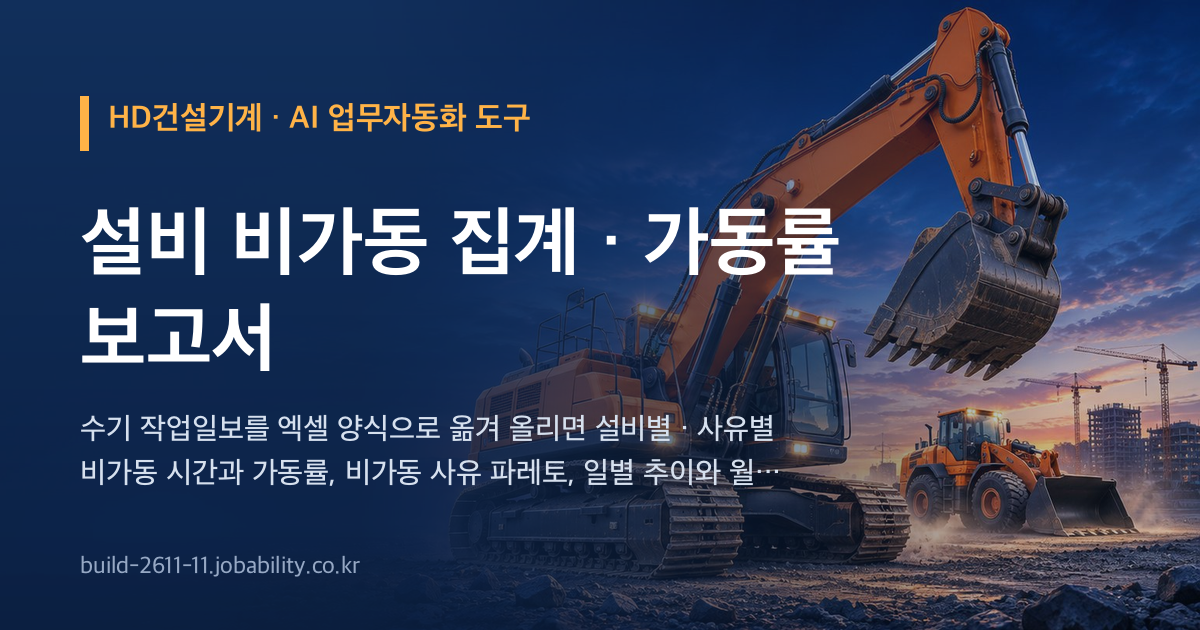
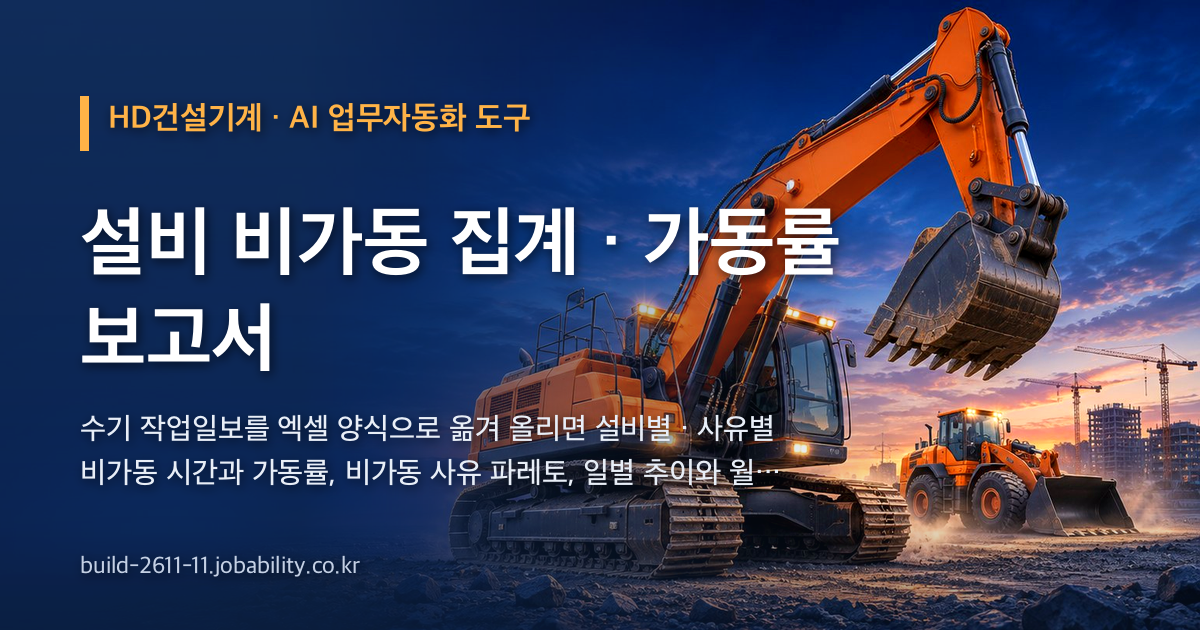
공유 그림 다시(사진 또렷하게) · 판 2026-11-13.12

diff --git a/index.html b/index.html
@@ -12,8 +12,8 @@
 <meta property="og:title" content="HD건설기계 · 설비 비가동 집계 · 가동률 보고서">
 <meta property="og:description" content="수기 작업일보를 엑셀 양식으로 옮겨 올리면 설비별 · 사유별 비가동 시간과 가동률, 비가동 사유 파레토, 일별 추이와 월간 설비 운영실적 보고서를 만들어 주는 브라우저 도구입니다.">
 <meta property="og:url" content="https://build-2611-11.jobability.co.kr/">
-<meta property="og:image" content="https://build-2611-11.jobability.co.kr/og-image.png">
-<meta property="og:image:secure_url" content="https://build-2611-11.jobability.co.kr/og-image.png">
+<meta property="og:image" content="https://build-2611-11.jobability.co.kr/og-image.png?v=2">
+<meta property="og:image:secure_url" content="https://build-2611-11.jobability.co.kr/og-image.png?v=2">
 <meta property="og:image:type" content="image/png">
 <meta property="og:image:width" content="1200">
 <meta property="og:image:height" content="630">
@@ -22,7 +22,7 @@
 <meta name="twitter:card" content="summary_large_image">
 <meta name="twitter:title" content="HD건설기계 · 설비 비가동 집계 · 가동률 보고서">
 <meta name="twitter:description" content="수기 작업일보를 엑셀 양식으로 옮겨 올리면 설비별 · 사유별 비가동 시간과 가동률, 비가동 사유 파레토, 일별 추이와 월간 설비 운영실적 보고서를 만들어 주는 브라우저 도구입니다.">
-<meta name="twitter:image" content="https://build-2611-11.jobability.co.kr/og-image.png">
+<meta name="twitter:image" content="https://build-2611-11.jobability.co.kr/og-image.png?v=2">
 <!-- /seo-kit -->
 <meta name="description" content="수기 작업일보를 엑셀 양식으로 옮겨 올리면 설비별 · 사유별 비가동 시간과 가동률, 비가동 사유 파레토, 일별 추이와 월간 설비 운영실적 보고서를 만들어 주는 브라우저 도구입니다.">
 <link rel="icon" href="favicon.svg" type="image/svg+xml">
@@ -30,9 +30,9 @@
 <link rel="stylesheet" href="css/app.css">
 <!-- auth-kit: 로그인 전에는 도구 화면을 감춘다(js/auth.js 가 판정 뒤 푼다) -->
 <script>document.documentElement.classList.add('auth-lock')</script>
-<link rel="stylesheet" href="css/auth.css?v=2026-11-13.11">
-<link rel="stylesheet" href="css/board.css?v=2026-11-13.11">
-<link rel="stylesheet" href="css/kit-build.css?v=2026-11-13.11">
+<link rel="stylesheet" href="css/auth.css?v=2026-11-13.12">
+<link rel="stylesheet" href="css/board.css?v=2026-11-13.12">
+<link rel="stylesheet" href="css/kit-build.css?v=2026-11-13.12">
 <!-- /auth-kit -->
 </head>
 <body>
@@ -214,11 +214,11 @@
 <script src="js/downtime.js"></script>
 <script src="js/app.js"></script>
 <!-- auth-kit: 로그인 · 사용 신청 · 승인 · 게시판(키트 정본 data10-00/kit/auth, 적용 build-2611-00/tools/kit) -->
-<script src="vendor/supabase.js?v=2026-11-13.11"></script>
-<script src="js/auth-config.js?v=2026-11-13.11"></script>
-<script src="js/kit-build.js?v=2026-11-13.11"></script>
-<script src="js/board.js?v=2026-11-13.11"></script>
-<script src="js/auth.js?v=2026-11-13.11"></script>
+<script src="vendor/supabase.js?v=2026-11-13.12"></script>
+<script src="js/auth-config.js?v=2026-11-13.12"></script>
+<script src="js/kit-build.js?v=2026-11-13.12"></script>
+<script src="js/board.js?v=2026-11-13.12"></script>
+<script src="js/auth.js?v=2026-11-13.12"></script>
 <!-- /auth-kit -->
 </body>
 </html>

diff --git a/scan.html b/scan.html
@@ -12,8 +12,8 @@
 <meta property="og:title" content="스캔본 읽기 — 설비 비가동 집계 · 가동률 보고서">
 <meta property="og:description" content="손으로 쓴 생산작업일보 · 용접로봇 가동일보 스캔본(사진 · PDF)을 AI 비전으로 읽어 확인한 뒤 비가동 집계 입력 양식으로 보냅니다. 키가 없으면 같은 표를 손으로 넣습니다.">
 <meta property="og:url" content="https://build-2611-11.jobability.co.kr/scan.html">
-<meta property="og:image" content="https://build-2611-11.jobability.co.kr/og-image.png">
-<meta property="og:image:secure_url" content="https://build-2611-11.jobability.co.kr/og-image.png">
+<meta property="og:image" content="https://build-2611-11.jobability.co.kr/og-image.png?v=2">
+<meta property="og:image:secure_url" content="https://build-2611-11.jobability.co.kr/og-image.png?v=2">
 <meta property="og:image:type" content="image/png">
 <meta property="og:image:width" content="1200">
 <meta property="og:image:height" content="630">
@@ -22,7 +22,7 @@
 <meta name="twitter:card" content="summary_large_image">
 <meta name="twitter:title" content="스캔본 읽기 — 설비 비가동 집계 · 가동률 보고서">
 <meta name="twitter:description" content="손으로 쓴 생산작업일보 · 용접로봇 가동일보 스캔본(사진 · PDF)을 AI 비전으로 읽어 확인한 뒤 비가동 집계 입력 양식으로 보냅니다. 키가 없으면 같은 표를 손으로 넣습니다.">
-<meta name="twitter:image" content="https://build-2611-11.jobability.co.kr/og-image.png">
+<meta name="twitter:image" content="https://build-2611-11.jobability.co.kr/og-image.png?v=2">
 <!-- /seo-kit -->
 <meta name="description" content="손으로 쓴 생산작업일보 · 용접로봇 가동일보 스캔본(사진 · PDF)을 AI 비전으로 읽어 확인한 뒤 비가동 집계 입력 양식으로 보냅니다. 키가 없으면 같은 표를 손으로 넣습니다.">
 <link rel="icon" href="favicon.svg" type="image/svg+xml">
@@ -30,9 +30,9 @@
 <link rel="stylesheet" href="css/app.css">
 <!-- auth-kit: 로그인 전에는 도구 화면을 감춘다(js/auth.js 가 판정 뒤 푼다) -->
 <script>document.documentElement.classList.add('auth-lock')</script>
-<link rel="stylesheet" href="css/auth.css?v=2026-11-13.11">
-<link rel="stylesheet" href="css/board.css?v=2026-11-13.11">
-<link rel="stylesheet" href="css/kit-build.css?v=2026-11-13.11">
+<link rel="stylesheet" href="css/auth.css?v=2026-11-13.12">
+<link rel="stylesheet" href="css/board.css?v=2026-11-13.12">
+<link rel="stylesheet" href="css/kit-build.css?v=2026-11-13.12">
 <!-- /auth-kit -->
 </head>
 <body>
@@ -125,11 +125,11 @@
 <script src="js/scanread.js"></script>
 <script src="js/scan.js"></script>
 <!-- auth-kit: 로그인 · 사용 신청 · 승인 · 게시판(키트 정본 data10-00/kit/auth, 적용 build-2611-00/tools/kit) -->
-<script src="vendor/supabase.js?v=2026-11-13.11"></script>
-<script src="js/auth-config.js?v=2026-11-13.11"></script>
-<script src="js/kit-build.js?v=2026-11-13.11"></script>
-<script src="js/board.js?v=2026-11-13.11"></script>
-<script src="js/auth.js?v=2026-11-13.11"></script>
+<script src="vendor/supabase.js?v=2026-11-13.12"></script>
+<script src="js/auth-config.js?v=2026-11-13.12"></script>
+<script src="js/kit-build.js?v=2026-11-13.12"></script>
+<script src="js/board.js?v=2026-11-13.12"></script>
+<script src="js/auth.js?v=2026-11-13.12"></script>
 <!-- /auth-kit -->
 </body>
 </html>

diff --git a/guide.html b/guide.html
@@ -12,8 +12,8 @@
 <meta property="og:title" content="사용법 — 설비 비가동 집계 · 가동률 보고서">
 <meta property="og:description" content="수기 작업일보를 엑셀 양식으로 옮겨 올리면 설비별 · 사유별 비가동 시간과 가동률, 비가동 사유 파레토, 일별 추이와 월간 설비 운영실적 보고서를 만들어 주는 브라우저 도구입니다.">
 <meta property="og:url" content="https://build-2611-11.jobability.co.kr/guide.html">
-<meta property="og:image" content="https://build-2611-11.jobability.co.kr/og-image.png">
-<meta property="og:image:secure_url" content="https://build-2611-11.jobability.co.kr/og-image.png">
+<meta property="og:image" content="https://build-2611-11.jobability.co.kr/og-image.png?v=2">
+<meta property="og:image:secure_url" content="https://build-2611-11.jobability.co.kr/og-image.png?v=2">
 <meta property="og:image:type" content="image/png">
 <meta property="og:image:width" content="1200">
 <meta property="og:image:height" content="630">
@@ -22,7 +22,7 @@
 <meta name="twitter:card" content="summary_large_image">
 <meta name="twitter:title" content="사용법 — 설비 비가동 집계 · 가동률 보고서">
 <meta name="twitter:description" content="수기 작업일보를 엑셀 양식으로 옮겨 올리면 설비별 · 사유별 비가동 시간과 가동률, 비가동 사유 파레토, 일별 추이와 월간 설비 운영실적 보고서를 만들어 주는 브라우저 도구입니다.">
-<meta name="twitter:image" content="https://build-2611-11.jobability.co.kr/og-image.png">
+<meta name="twitter:image" content="https://build-2611-11.jobability.co.kr/og-image.png?v=2">
 <!-- /seo-kit -->
 <link rel="icon" href="favicon.svg" type="image/svg+xml">
 <link rel="stylesheet" href="css/style.css">

diff --git a/plan.html b/plan.html
@@ -12,8 +12,8 @@
 <meta property="og:title" content="기획서 — 설비 비가동 집계 · 가동률 보고서">
 <meta property="og:description" content="수기 작업일보를 엑셀 양식으로 옮겨 올리면 설비별 · 사유별 비가동 시간과 가동률, 비가동 사유 파레토, 일별 추이와 월간 설비 운영실적 보고서를 만들어 주는 브라우저 도구입니다.">
 <meta property="og:url" content="https://build-2611-11.jobability.co.kr/plan.html">
-<meta property="og:image" content="https://build-2611-11.jobability.co.kr/og-image.png">
-<meta property="og:image:secure_url" content="https://build-2611-11.jobability.co.kr/og-image.png">
+<meta property="og:image" content="https://build-2611-11.jobability.co.kr/og-image.png?v=2">
+<meta property="og:image:secure_url" content="https://build-2611-11.jobability.co.kr/og-image.png?v=2">
 <meta property="og:image:type" content="image/png">
 <meta property="og:image:width" content="1200">
 <meta property="og:image:height" content="630">
@@ -22,7 +22,7 @@
 <meta name="twitter:card" content="summary_large_image">
 <meta name="twitter:title" content="기획서 — 설비 비가동 집계 · 가동률 보고서">
 <meta name="twitter:description" content="수기 작업일보를 엑셀 양식으로 옮겨 올리면 설비별 · 사유별 비가동 시간과 가동률, 비가동 사유 파레토, 일별 추이와 월간 설비 운영실적 보고서를 만들어 주는 브라우저 도구입니다.">
-<meta name="twitter:image" content="https://build-2611-11.jobability.co.kr/og-image.png">
+<meta name="twitter:image" content="https://build-2611-11.jobability.co.kr/og-image.png?v=2">
 <!-- /seo-kit -->
 <link rel="icon" href="favicon.svg" type="image/svg+xml">
 <link rel="stylesheet" href="css/style.css">

diff --git a/report.html b/report.html
@@ -12,8 +12,8 @@
 <meta property="og:title" content="평가보고서 — 설비 비가동 집계 · 가동률 보고서">
 <meta property="og:description" content="설비 비가동 집계 · 가동률 보고서 점검 · 평가보고서(2026-11-13) — 사이트 점검, 기능과 시험, 인계 준비, 판 이력, 한계.">
 <meta property="og:url" content="https://build-2611-11.jobability.co.kr/report.html">
-<meta property="og:image" content="https://build-2611-11.jobability.co.kr/og-image.png">
-<meta property="og:image:secure_url" content="https://build-2611-11.jobability.co.kr/og-image.png">
+<meta property="og:image" content="https://build-2611-11.jobability.co.kr/og-image.png?v=2">
+<meta property="og:image:secure_url" content="https://build-2611-11.jobability.co.kr/og-image.png?v=2">
 <meta property="og:image:type" content="image/png">
 <meta property="og:image:width" content="1200">
 <meta property="og:image:height" content="630">
@@ -22,7 +22,7 @@
 <meta name="twitter:card" content="summary_large_image">
 <meta name="twitter:title" content="평가보고서 — 설비 비가동 집계 · 가동률 보고서">
 <meta name="twitter:description" content="설비 비가동 집계 · 가동률 보고서 점검 · 평가보고서(2026-11-13) — 사이트 점검, 기능과 시험, 인계 준비, 판 이력, 한계.">
-<meta name="twitter:image" content="https://build-2611-11.jobability.co.kr/og-image.png">
+<meta name="twitter:image" content="https://build-2611-11.jobability.co.kr/og-image.png?v=2">
 <!-- /seo-kit -->
 <meta name="description" content="설비 비가동 집계 · 가동률 보고서 점검 · 평가보고서(2026-11-13) — 사이트 점검, 기능과 시험, 인계 준비, 판 이력, 한계.">
 <link rel="icon" href="favicon.svg" type="image/svg+xml">
